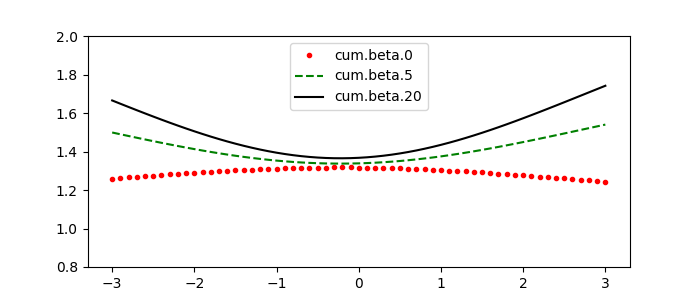
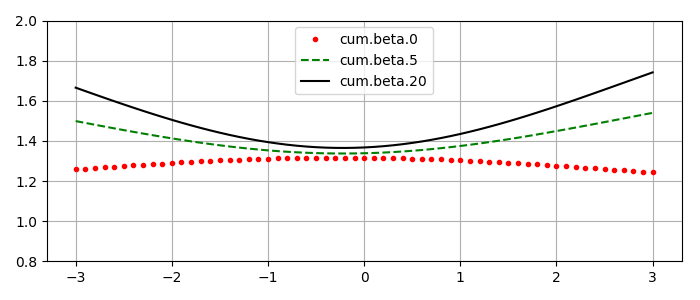
plot: add grid and reduce margin
plot: add grid and reduce margin

diff --git a/figures/plot_cum_beta.py b/figures/plot_cum_beta.py
@@ -86,15 +86,17 @@ def plot_cum_beta_helper(filename, portfolio, id, param):
     plt.plot(mktrf, output_beta[:,5], 'g--', label='cum.beta.5')
     plt.plot(mktrf, output_beta[:,20], 'k-', label='cum.beta.20')
 
-    # plt.title(plot_title)
-    plt.legend(loc='upper center')
-
     if str.find(filename, 'value') >= 0:
         plt.yticks(np.arange(0.8,2.01,0.2))
     elif str.find(filename, 'size') >= 0:
         plt.yticks(np.arange(0.5,2.51,0.5))
     elif str.find(filename, 'ff3factors') >= 0:
         plt.yticks(np.arange(-.4, .61, 0.2))
+
+    # plt.title(plot_title)
+    plt.legend(loc='upper center')
+    plt.grid()
+    plt.tight_layout()
 
     plt.savefig('outputs/plot_cum_beta_{}.png'.format(plot_title))
     plt.close()
@@ -109,10 +111,10 @@ if __name__ == "__main__":
 
     sql_loader = DataLoader(connect=True)
 
-    # plot_cum_beta('portfolio_size_daily', 'd1')
-    # plot_cum_beta('portfolio_size_daily', 'd10')
-    # plot_cum_beta('portfolio_value_daily', 'd1')
-    # plot_cum_beta('portfolio_value_daily', 'd10')
+    plot_cum_beta('portfolio_size_daily', 'd1')
+    plot_cum_beta('portfolio_size_daily', 'd10')
+    plot_cum_beta('portfolio_value_daily', 'd1')
+    plot_cum_beta('portfolio_value_daily', 'd10')
 
     plot_cum_beta('ff3factors_daily', None)
 
